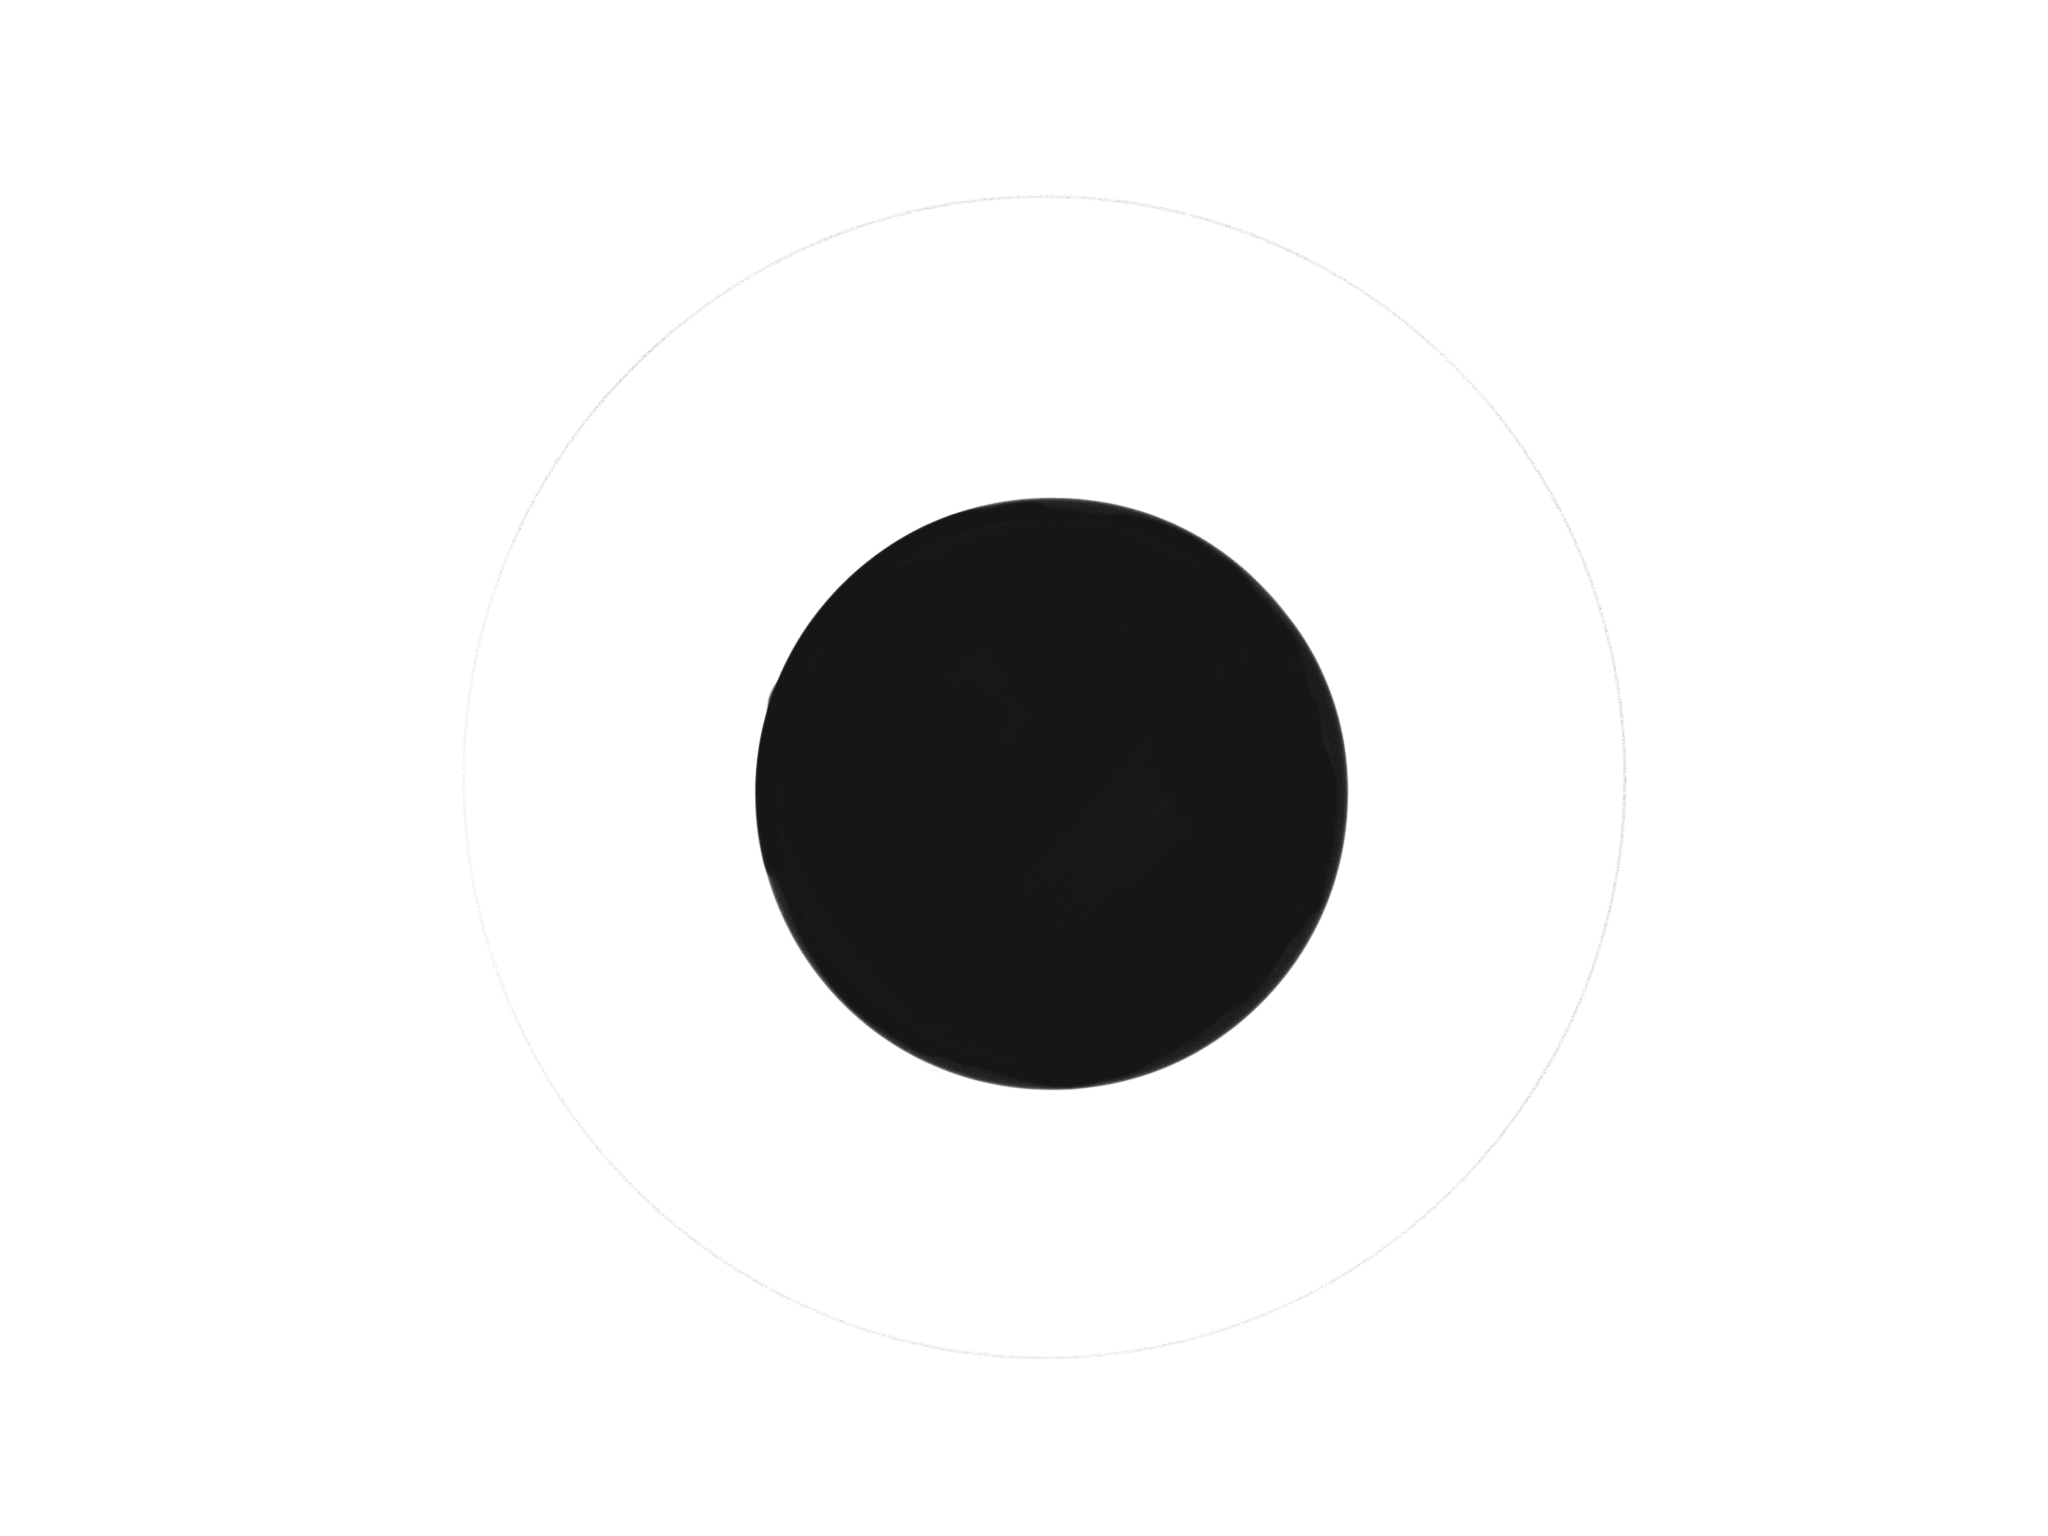
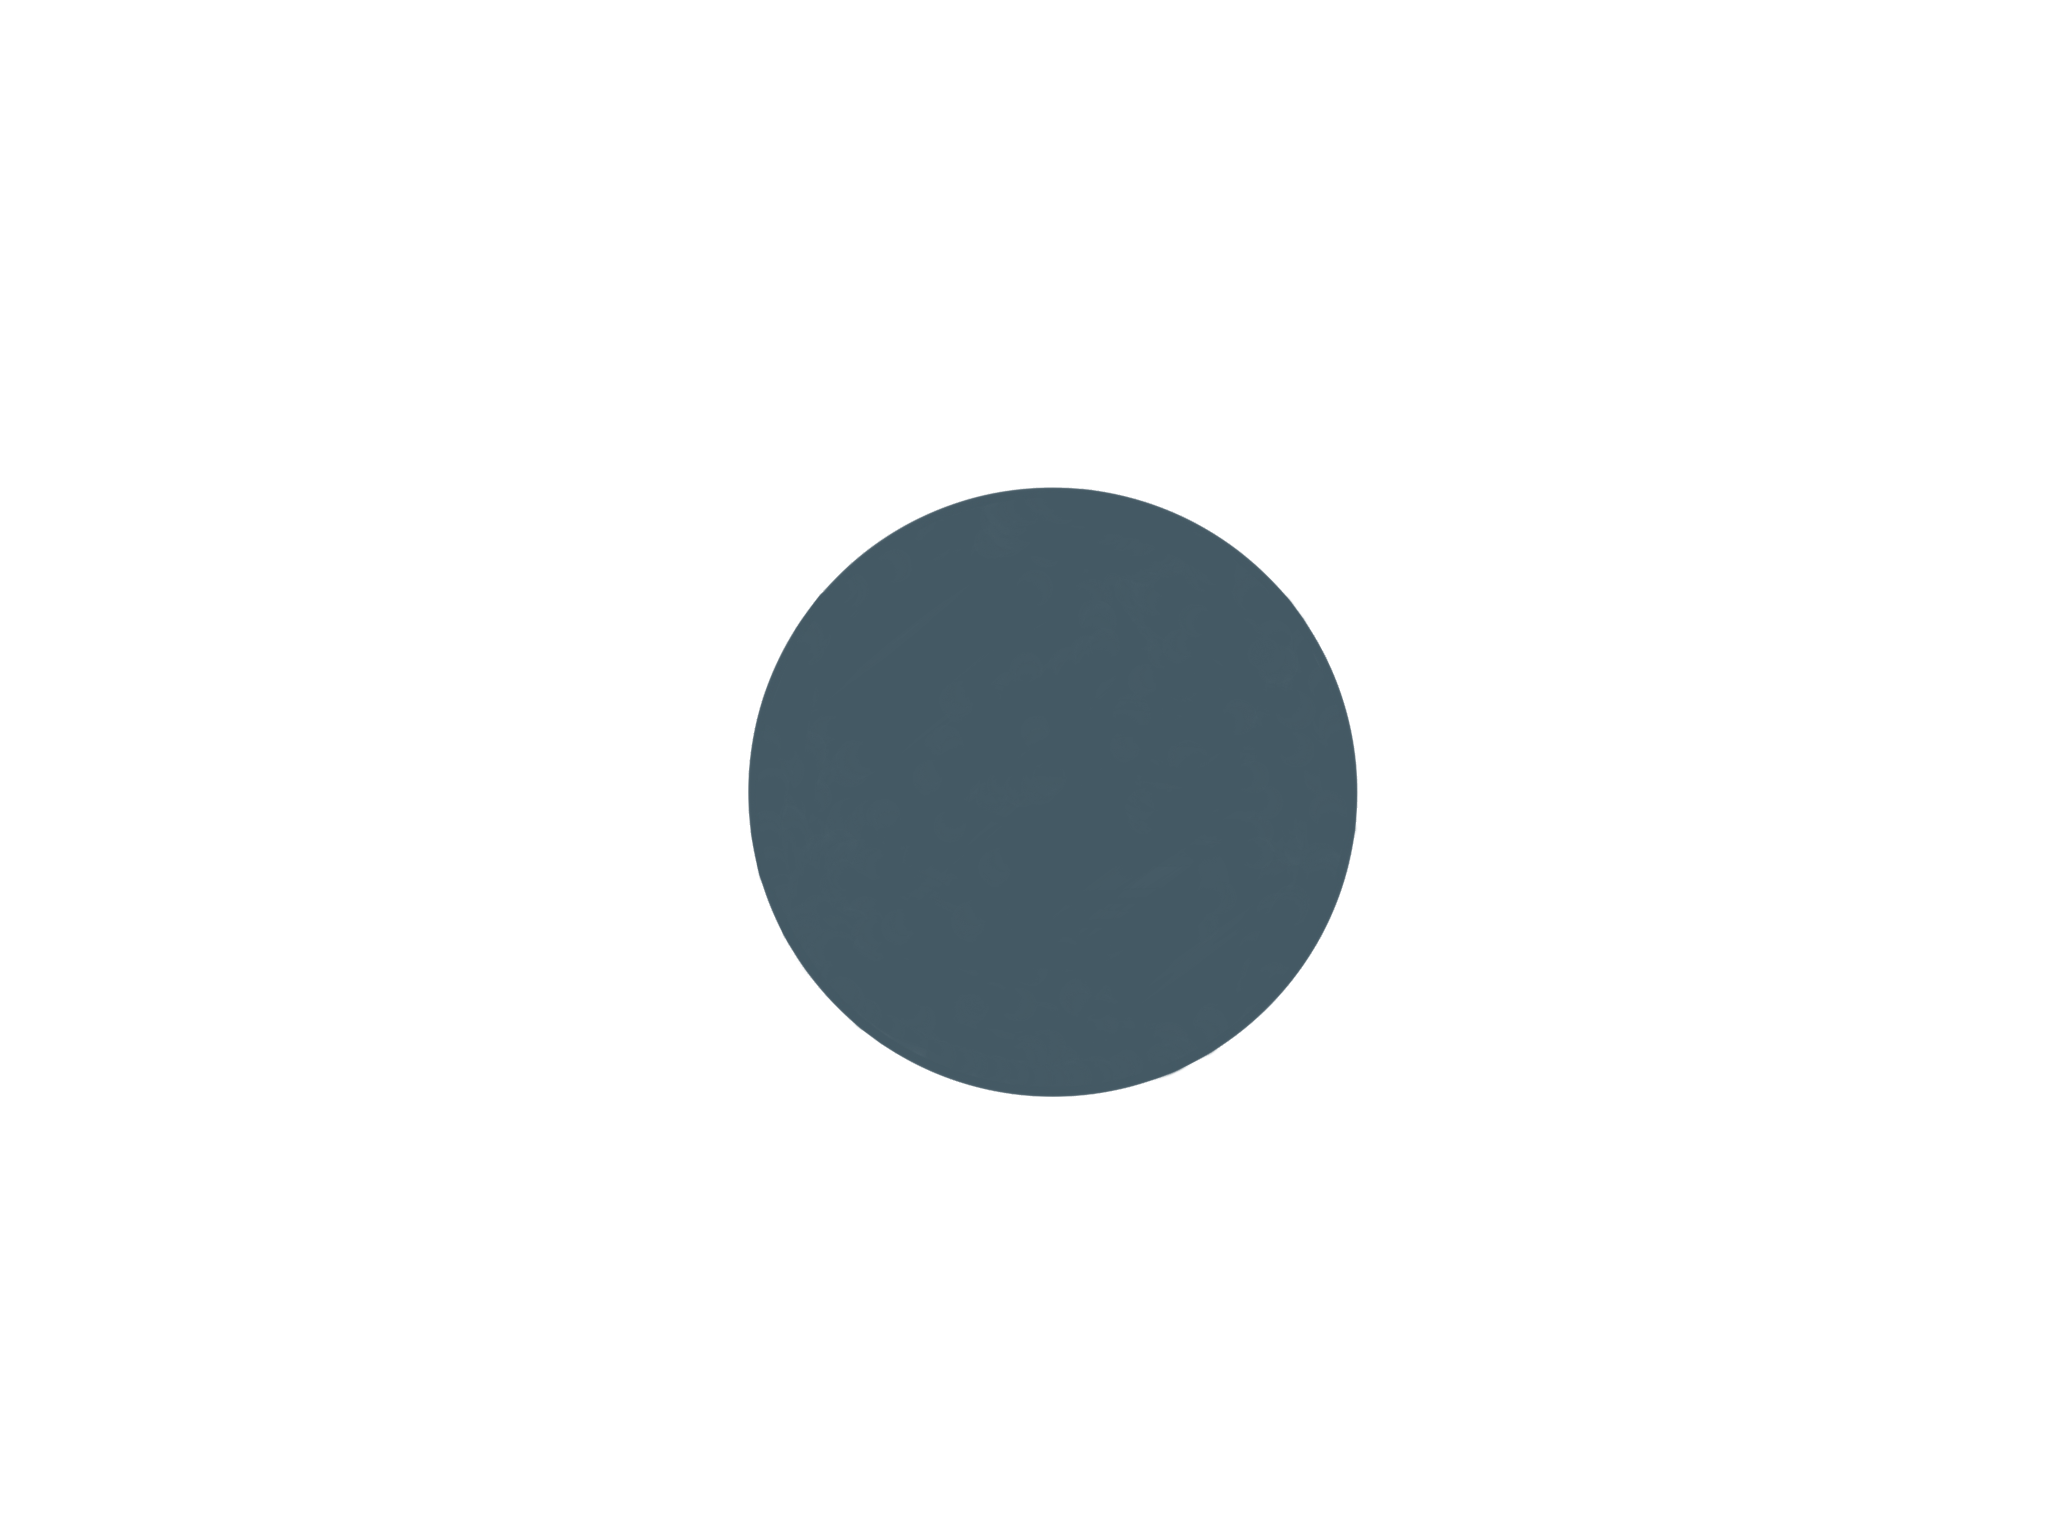
update

Changed region(s): [[0.3438, 0.3125, 0.6875, 0.7188]]

diff --git a/network_identity/templates/network_identity/Results.html b/network_identity/templates/network_identity/Results.html
@@ -132,7 +132,7 @@
 
         layout.run();
         //cy.center('node[isMine="yes"]');
-        cy.panBy('node[isMine="yes"]');
+        // cy.panBy('node[isMine="yes"]');
         //cy.fit();
         // Centra en el nodo pero no con los demás al rededor
 
@@ -169,12 +169,12 @@
 
             .selector('node[shape=2]')
             .style('shape', 'ellipse')
-            .style('background-image', 'url("{% static "network_identity/circle.png" %}")')
+            .style('background-image', 'url("{% static "network_identity/triangle.png" %}")')
             .style('background-fit', 'cover cover')
 
             .selector('node[shape=3]')
             .style('shape', 'triangle')
-            .style('background-image', 'url("{% static "network_identity/triangle.png" %}")')
+            .style('background-image', 'url("{% static "network_identity/circle.png" %}")')
             .style('background-fit', 'cover cover')
 
             .selector('node[shape=4]')
@@ -183,8 +183,9 @@
             .style('background-fit', 'cover cover')
 
             .selector('node[isMine="yes"]')
+            .style('width', '50px')
+            .style('height', '50px')
             .style('border-width', '5')
-            .style('font-size','20pt')
             .style('font-size','25pt')
             .style('color','#455A64')
 

diff --git a/network_identity/templates/network_identity/Formation.html b/network_identity/templates/network_identity/Formation.html
@@ -112,19 +112,27 @@
         cy.style()
             .selector('node[shape=1]')
             .style('shape', 'ellipse')
-
+            .style('background-image', 'url("{% static "network_identity/circle.png" %}")')
+            .style('background-fit', 'cover cover')
 
             .selector('node[shape=2]')
             .style('shape', 'ellipse')
+            .style('background-image', 'url("{% static "network_identity/triangle.png" %}")')
+            .style('background-fit', 'cover cover')
 
             .selector('node[shape=3]')
             .style('shape', 'triangle')
+            .style('background-image', 'url("{% static "network_identity/circle.png" %}")')
+            .style('background-fit', 'cover cover')
 
             .selector('node[shape=4]')
             .style('shape', 'triangle')
-
+            .style('background-image', 'url("{% static "network_identity/triangle.png" %}")')
+            .style('background-fit', 'cover cover')
 
             .selector('node[isMine="yes"]')
+            .style('width', '50px')
+            .style('height', '50px')
             .style('background-color', '#B3E5FC')
             .style('border-width', '5')
             .style('border-color', '#455A64')

diff --git a/network_identity/templates/network_identity/Action.html b/network_identity/templates/network_identity/Action.html
@@ -149,6 +149,8 @@
             .style('shape', 'triangle')
 
             .selector('node[isMine="yes"]')
+            .style('width', '50px')
+            .style('height', '50px')
             .style('background-color', '#B3E5FC')
             .style('border-width', '5')
             .style('border-color', '#455A64')

diff --git a/network_identity/models.py b/network_identity/models.py
@@ -16,13 +16,13 @@ Network Identity
 class Constants(BaseConstants):
     name_in_url = 'network_identity'
     num_rounds = 2
-    players_per_group = 3
+    players_per_group = 2
 
     circle = 1 # Majority
     triangle = 0 # Minority
     # names_1 = ['1','2','3','4','5','6','7','8','9','10','11']
     # names_2 = ['5','7','9','11','2','4','6','8','10','1','3']
-    names = ['1', '2', '3']
+    names = ['1', '2']
     attribute = [0,1,1,0,1,0,1,1,1,0,0]
     attributes = {'1': 0, '2': 1, '3': 1, '4': 0, '5': 1, '6': 0, '7': 1, '8': 1, '9': 1, '10': 0, '11': 0}
     # visible = 1

diff --git a/settings.py b/settings.py
@@ -133,7 +133,7 @@ SESSION_CONFIGS = [
     {
         'name': 'network_identity',
         'display_name': "network_identity",
-        'num_demo_participants': 3,
+        'num_demo_participants': 2,
         'app_sequence': ['network_identity'],
     },
     {
